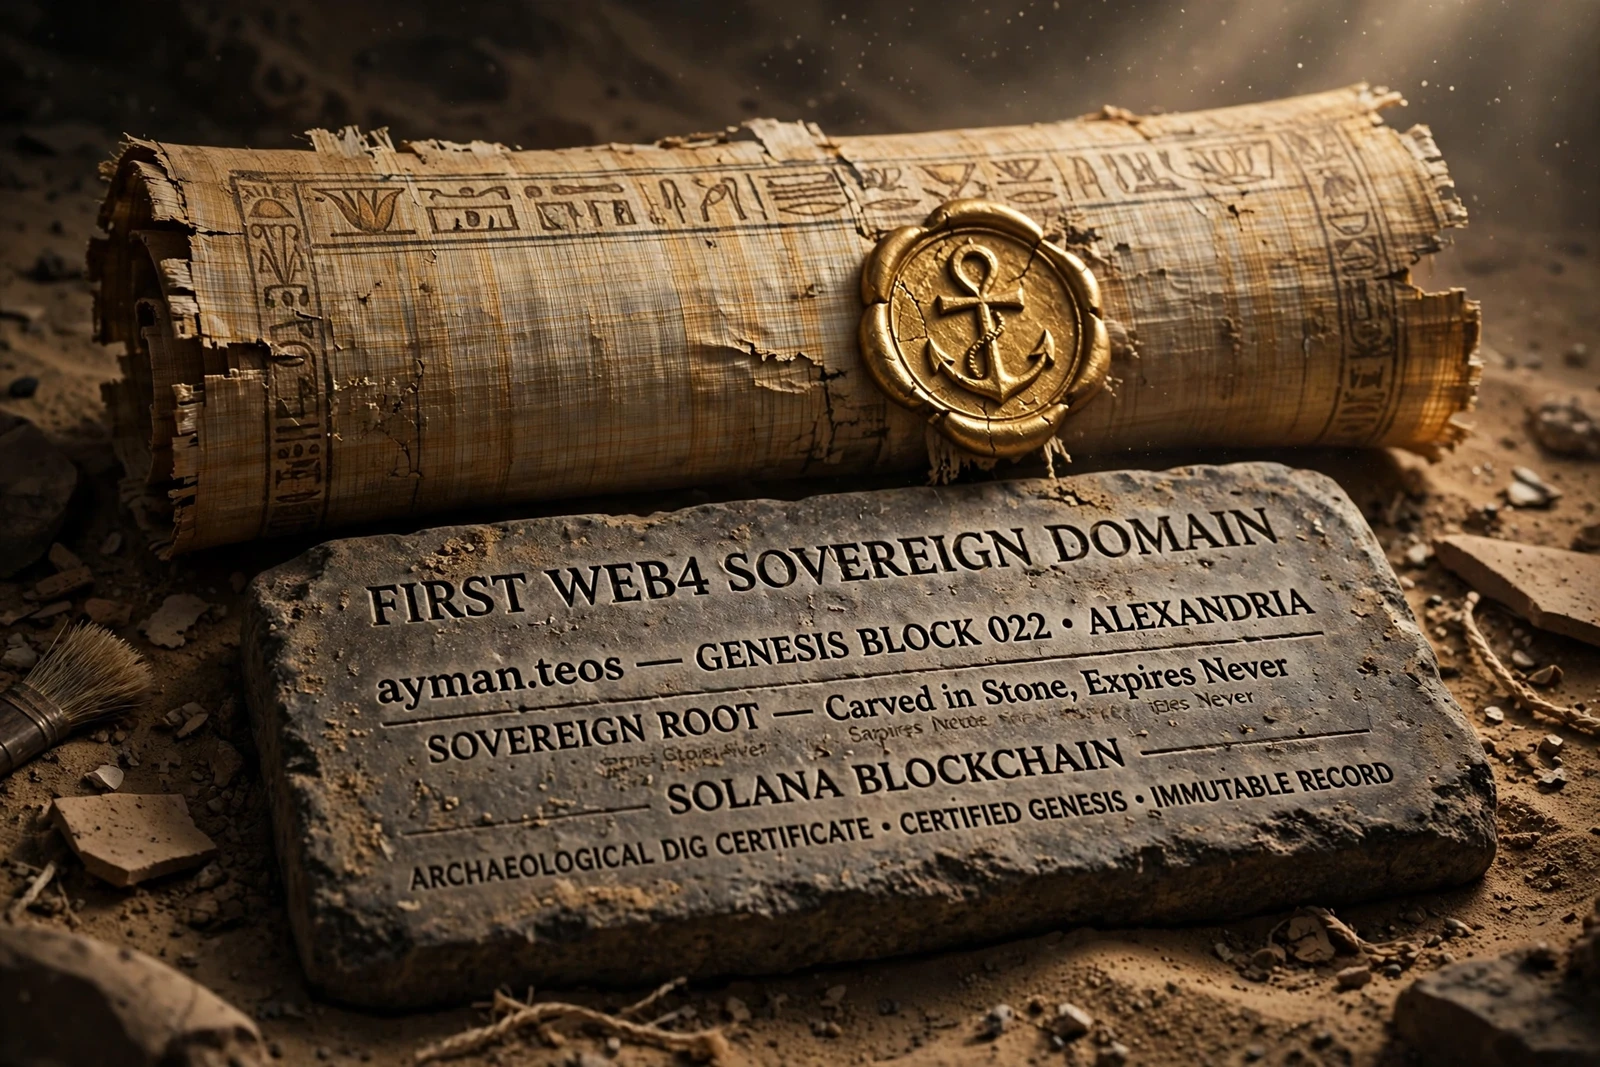
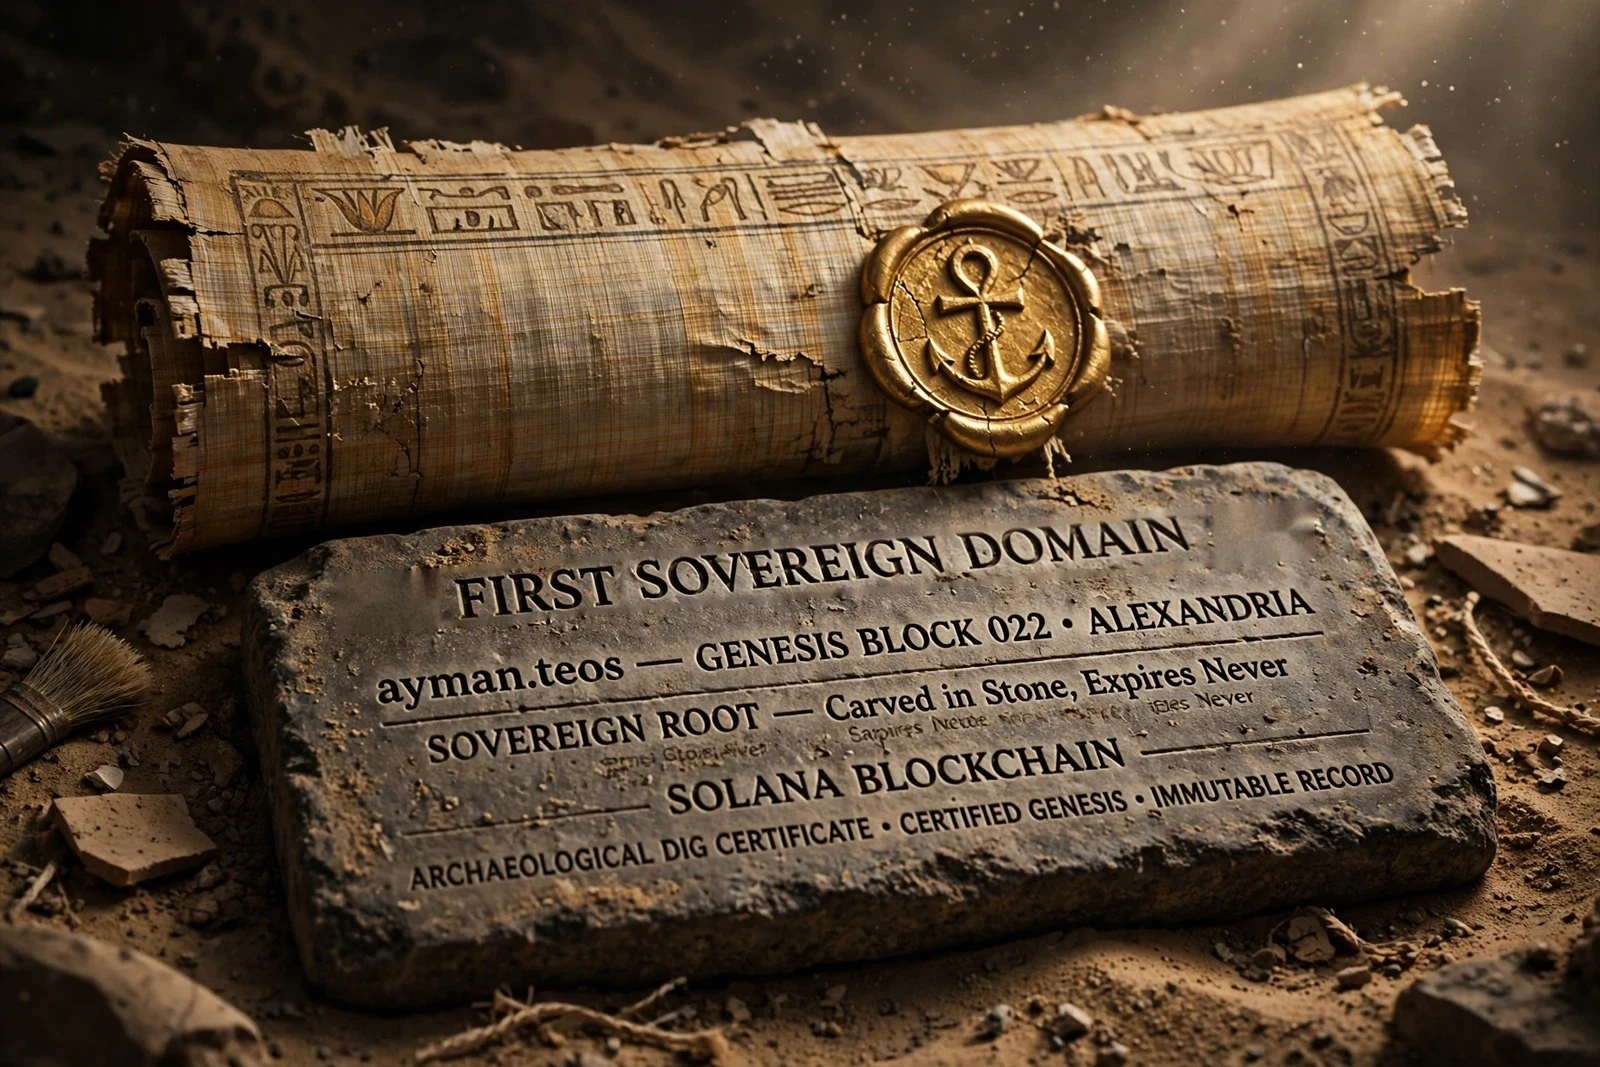
Search card: single status for TAKEN/RESERVED/owned; remove Web4 from stone image and footer

Changed region(s): [[0.2188, 0.4639, 0.8438, 0.5876]]

diff --git a/app/page.tsx b/app/page.tsx
@@ -44,6 +44,7 @@ export default function Home() {
   const [stats, setStats] = useState<any>(null);
   const [name, setName] = useState("");
   const [checked, setChecked] = useState<any>(null);
+  const [checkedFor, setCheckedFor] = useState("");
   const [quote, setQuote] = useState<MintQuote | null>(null);
   const [msg, setMsg] = useState("");
   const [busy, setBusy] = useState(false);
@@ -85,7 +86,7 @@ export default function Home() {
     const r = await fetch(`/api/check?name=${encodeURIComponent(clean)}&tlds=teos`);
     const j = await r.json();
     if (!r.ok) { setPopup(false); throw new Error(j.error || "Invalid name"); }
-    setChecked(j);
+    setChecked(j); setCheckedFor(clean);
     if (!stats?.tlds) setStats(await fetch("/api/stats", { cache: "no-store" }).then((x) => x.json()).catch(() => stats));
   });
 
@@ -159,18 +160,28 @@ export default function Home() {
             <input id="n" dir="auto" style={{ ...input, fontSize: 21, padding: "16px 14px", textAlign: "center" }} value={name} placeholder={t("hero.searchPlaceholder")} onChange={(e) => setName(e.target.value)} onKeyDown={(e) => e.key === "Enter" && clean && check()} />
             <div style={{ margin: "12px 0" }}><CountryDropdown tlds={all} selected={selectedTld} onSelect={setSelectedTld} placeholder={L.country} empty={L.dropdownEmpty} /></div>
             <div style={{ display: "flex", flexWrap: "wrap", gap: 12, textAlign: "center" }}>
-              <div style={{ flex: "1 1 200px", background: "#d4c5a9", color: "#2a2520", border: "3px double #7a6540", padding: 12, minWidth: 0 }}>
-                <div style={{ display: "flex", justifyContent: "center" }}><FounderSeal size={56} /></div>
-                <div style={{ fontFamily: SERIF, fontWeight: 700, fontSize: 18, overflowWrap: "anywhere" }}>{clean || "name"}.teos</div>
-                <div dir="auto" style={{ fontSize: 12, color: "#7f1d1d", fontWeight: 700 }}>{L.sovereignKey}</div>
-                <div style={{ fontFamily: "ui-monospace, monospace", fontSize: 18 }}>{clean ? `$${getPrice(clean, "teos").toLocaleString("en-US")}` : "—"}</div>
-              </div>
-              <div style={{ flex: "1 1 200px", background: "#2a2520", border: "1px solid #57493a", padding: 12, minWidth: 0, opacity: owned.includes(clean) ? 1 : 0.85 }}>
-                <div style={{ fontSize: 28 }}>{owned.includes(clean) ? "🔓" : "🔒"}</div>
-                <div style={{ fontFamily: SERIF, fontWeight: 700, fontSize: 18, overflowWrap: "anywhere" }}>{clean || "name"}.{selectedTld}</div>
-                <div dir="auto" style={{ fontSize: 12, color: owned.includes(clean) ? "#4ade80" : "#f87171", fontWeight: 700 }}>{owned.includes(clean) ? "" : <Bidi text={t("hero.locked", { tld: ".teos" })} />}</div>
-                <div style={{ fontFamily: "ui-monospace, monospace", fontSize: 18 }}>{clean && owned.includes(clean) ? `$${getPrice(clean, selectedTld).toLocaleString("en-US")}` : "—"}</div>
-              </div>
+              {(() => {
+                const res = checked && checkedFor === clean ? checked.results?.find((x: any) => x.tld === "teos") ?? null : null;
+                const youOwn = !!res && !!wallet && (myNames.includes(clean) || owned.includes(clean));
+                const free = !!res?.available && !youOwn;
+                const state = !res ? "" : youOwn ? L.youOwnU : free ? L.availableU : res.reason === "reserved" ? L.reservedU : L.takenU;
+                return (<>
+                  <div style={{ flex: "1 1 200px", background: "#d4c5a9", color: "#2a2520", border: "3px double #7a6540", padding: 12, minWidth: 0 }}>
+                    <div style={{ display: "flex", justifyContent: "center" }}><FounderSeal size={56} /></div>
+                    <div style={{ fontFamily: SERIF, fontWeight: 700, fontSize: 18, overflowWrap: "anywhere" }}>{clean || "name"}.teos</div>
+                    <div dir="auto" style={{ fontSize: 12, color: res && !free && !youOwn ? "#7f1d1d" : youOwn || free ? "#14532d" : "#7f1d1d", fontWeight: 700 }}>{res ? state : L.sovereignKey}</div>
+                    {(!res || free) && <div style={{ fontFamily: "ui-monospace, monospace", fontSize: 18 }}>{free && clean ? `$${getPrice(clean, "teos").toLocaleString("en-US")}` : "—"}</div>}
+                  </div>
+                  {(!res || free) && (
+                    <div style={{ flex: "1 1 200px", background: "#2a2520", border: "1px solid #57493a", padding: 12, minWidth: 0, opacity: owned.includes(clean) ? 1 : 0.85 }}>
+                      <div style={{ fontSize: 28 }}>{owned.includes(clean) ? "🔓" : "🔒"}</div>
+                      <div style={{ fontFamily: SERIF, fontWeight: 700, fontSize: 18, overflowWrap: "anywhere" }}>{clean || "name"}.{selectedTld}</div>
+                      <div dir="auto" style={{ fontSize: 12, color: owned.includes(clean) ? "#4ade80" : "#f87171", fontWeight: 700 }}>{owned.includes(clean) ? "" : <Bidi text={t("hero.locked", { tld: ".teos" })} />}</div>
+                      <div style={{ fontFamily: "ui-monospace, monospace", fontSize: 18 }}>{clean && owned.includes(clean) ? `$${getPrice(clean, selectedTld).toLocaleString("en-US")}` : "—"}</div>
+                    </div>
+                  )}
+                </>);
+              })()}
             </div>
             <p style={{ margin: "16px 0 0" }}><button style={{ ...btn, fontSize: 18, padding: "14px 28px" }} disabled={busy || !clean} onClick={check}>{L.checkBtn}</button></p>
             <p style={{ margin: "12px 0 0", color: "#a89a80", fontSize: 13, letterSpacing: "0.06em" }}>{all.length ? fmt(L.sovTlds, { n: all.length }) : ""} • {L.rule}</p>

diff --git a/lib/i18n.ts b/lib/i18n.ts
@@ -106,7 +106,7 @@ const en = {
   followTitle: "FOLLOW KING TEOS",
   fi1: "I am KING TEOS - Ayman Seif. Founder of TEOS. LIVE FROM ALEXANDRIA.",
   fi2: "This is my sovereign root. {n} TLDs. .teos is the root key for country identities.",
-  fi3: "Welcome to my marketplace - web4.elmahrosa.org",
+  fi3: "Welcome to my marketplace - elmahrosa.org",
   chatTitle: "KING TEOS - Sovereign Assistant (AI)",
   chatHello: "Ask me about sovereign identities, name availability, current prices and SOL payments on Solana.",
   chatPlaceholder: "Ask about .teos domains...",
@@ -339,7 +339,7 @@ const ar: Dict = {
   followTitle: "تابع الملك TEOS",
   fi1: "أنا الملك TEOS - أيمن سيف. مؤسس TEOS. مباشر من الإسكندرية.",
   fi2: "هذا هو الجذر السيادي الخاص بي. {n} نطاقًا. .teos هو مفتاح الجذر لهويات النطاقات.",
-  fi3: "أهلا بك في سوقي - web4.elmahrosa.org",
+  fi3: "أهلا بك في سوقي - elmahrosa.org",
   chatTitle: "الملك TEOS - مساعد سيادي (ذكاء اصطناعي)",
   chatHello: "اسألني عن الهويات السيادية، وتوفر الأسماء، والأسعار الحالية، والدفع بعملة SOL على شبكة Solana.",
   chatPlaceholder: "اسأل عن نطاقات .teos...",
@@ -571,7 +571,7 @@ const id: Dict = {
   followTitle: "IKUTI KING TEOS",
   fi1: "Saya KING TEOS - Ayman Seif. Pendiri TEOS. LANGSUNG DARI ALEXANDRIA.",
   fi2: "Ini adalah akar berdaulat saya. {n} TLD. .teos adalah kunci akar untuk identitas domain.",
-  fi3: "Selamat datang di pasar saya - web4.elmahrosa.org",
+  fi3: "Selamat datang di pasar saya - elmahrosa.org",
   chatTitle: "KING TEOS - Asisten berdaulat (AI)",
   chatHello: "Tanyakan tentang identitas berdaulat, ketersediaan nama, harga saat ini, dan pembayaran SOL di Solana.",
   chatPlaceholder: "Tanya soal domain .teos...",

diff --git a/app/opengraph-image.tsx b/app/opengraph-image.tsx
@@ -13,7 +13,7 @@ export default function Image() {
         <div style={{ fontSize: 84, letterSpacing: 12, fontWeight: 700 }}>SOVEREIGN TEOS</div>
         <div style={{ fontSize: 38, color: "#d6cbb5", marginTop: 16 }}>Register .teos and country domains as Solana assets</div>
         <div style={{ fontSize: 34, color: "#D4AF37", marginTop: 28 }}>Sovereign Names - Transparent Price Tiers</div>
-        <div style={{ fontSize: 28, color: "#a89a80", marginTop: 20 }}>web4.elmahrosa.org</div>
+        <div style={{ fontSize: 28, color: "#a89a80", marginTop: 20 }}>elmahrosa.org</div>
       </div>
     ),
     size,

diff --git a/components/SiteFooter.tsx b/components/SiteFooter.tsx
@@ -19,7 +19,7 @@ export default function SiteFooter({ t }: { t: Dict }) {
       <p style={{ color: "#a89a80", fontSize: 13, margin: "10px 0 0" }}>
         {t.wallets} · <a href="/terms" style={{ color: "inherit" }}>{t.terms}</a> · <a href="/privacy" style={{ color: "inherit" }}>{t.privacy}</a>
       </p>
-      <p style={{ color: "#71717a", fontSize: 12, margin: "10px 0 0" }}>© 2026 ELMAHROSA - web4.elmahrosa.org</p>
+      <p style={{ color: "#71717a", fontSize: 12, margin: "10px 0 0" }}>© 2026 ELMAHROSA - elmahrosa.org</p>
     </footer>
   );
 }
